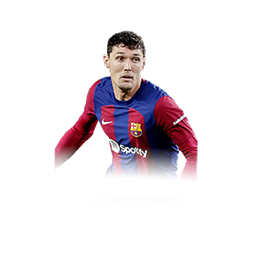
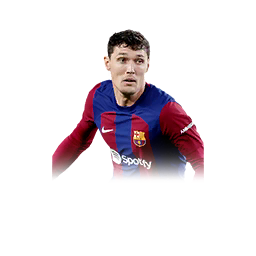
FCMSquad

Changed region(s): [[0.1875, 0.0938, 0.8125, 0.6875]]

diff --git a/fcmsimul/scripts/cardList.js b/fcmsimul/scripts/cardList.js
@@ -144,9 +144,9 @@ const cardData = [
     {idx: 142, code: "LEGACY23", name: "LEGACY23", otherNames: ["23레거시", "레거시23", "레거시"], image: "https://indvel.github.io/fcmsquad/resources/cards/Legacy23.png", type: "fm", color: "white"},
     {idx: 143, code: "KOT", name: "TT22 LOW", otherNames: ["TT22", "22TT", "TT", "티티", "녹즙"], image: "https://indvel.github.io/fcmsquad/resources/cards/TT22_Low.png", type: "fm", color: "white"},
     {idx: 144, code: "TI24", name: "트로피 아이콘_Low", otherNames: ["트로피", "트아", "118", "공짜"], image: "https://indvel.github.io/fcmsquad/resources/cards/TrophyIcons_Low.png", type: "fc", color: "#664B00"},
-    {idx: 145, code: "HEROES24", name: "Hero24", otherNames: ["히어로24", "히어로", "카툰", "24히어로"], image: "https://indvel.github.io/fcmsquad/resources/cards/Heroes24.png", type: "fc", color: "white"},
+    {idx: 145, code: "HEROES24", name: "Hero24", otherNames: ["히어로24", "히어로", "24히어로"], image: "https://indvel.github.io/fcmsquad/resources/cards/Heroes24.png", type: "fc", color: "white", sprite: "HERO24_Live_looop.png"},
     {idx: 146, code: "HEROES24", name: "Hero24_CARTOON", otherNames: ["히어로24", "히어로", "카툰", "24히어로", "챔스", "UCL"], image: "https://indvel.github.io/fcmsquad/resources/cards/Heroes24_UCL.png", type: "fc", color: "white"},
-    {idx: 147, code: "HEROES24", name: "UnsungHero24", otherNames: ["히어로24", "히어로", "카툰", "언성", "UH", "언성히어로", "24히어로"], image: "https://indvel.github.io/fcmsquad/resources/cards/Heroes24_Unsung.png", type: "fc", color: "white"},
+    {idx: 147, code: "HEROES24", name: "UnsungHero24", otherNames: ["히어로24", "히어로", "카툰", "언성", "UH", "언성히어로", "24히어로"], image: "https://indvel.github.io/fcmsquad/resources/cards/Heroes24_Unsung.png", type: "fc", color: "white", sprite: "HERO24_CARD_loop.png"},
     {idx: 148, code: "HT24", name: "HatTrick24", otherNames: ["해트트릭", "해트", "트릭", "신태용", "만우절", "멕시코"], image: "https://indvel.github.io/fcmsquad/resources/cards/DOD24.png", type: "fc", color: "white"},
     {idx: 149, code: "HT24_ICON", name: "HatTrick24_ICON", otherNames: ["해트트릭", "해트", "트릭", "신태용", "만우절", "멕시코", "아이콘"], image: "https://indvel.github.io/fcmsquad/resources/cards/DOD24_ICON.png", type: "fc", color: "#664B00"},
     {idx: 150, code: "CT24", name: "CENTURIONS24", otherNames: ["센츄리온", "센츄", "CT", "센추리온", "센추리얼", "센츄리온스", "센추리온스"], image: "https://indvel.github.io/fcmsquad/resources/cards/CENTURIONS24.png", type: "fc", color: "white"},

diff --git a/fcmsquad/resources/faceData.js b/fcmsquad/resources/faceData.js
@@ -2270,6 +2270,7 @@ const faceData = [
         "idx": 285,
         "pid": "235790",
         "images": [
+            "./resources/players/players_23/p235790_HEROES24.png",
             "https://renderz.app/image-cdn/player_23_235790_UCLRTF24_LIVE_4c57ee6866a4ef50/normal",
             "https://renderz.app/image-cdn/player_23_235790_MOMENT24_LIVE_9ce31eb72ebc3989/normal",
             "https://renderz.app/image-cdn/player_23_235790_TOTS24_LIVE_ca8cb5eb7337c826/normal",
@@ -3078,7 +3079,7 @@ const faceData = [
         "idx": 376,
         "pid": "251809",
         "images": [
-            "./resources/players/players_23/p251809_HERO24_LIVE.png",
+            "./resources/players/players_23/p251809_HEROES24.png",
             "https://renderz.app/image-cdn/player_23_251809_WW24_LIVE_fce6f40483392e36/normal",
             "https://renderz.app/image-cdn/player_23_251809/normal"
         ]
@@ -6893,6 +6894,7 @@ const faceData = [
         "idx": 895,
         "pid": "200724",
         "images": [
+            "./resources/players/players_23/p200724_HEROES24.png",
             "https://renderz.app/image-cdn/player_23_200724_UCL24_LIVE/normal",
             "https://renderz.app/image-cdn/player_23_200724_2324BASE_2936037cf12c360f/normal"
         ]
@@ -12268,5 +12270,12 @@ const faceData = [
         "images": [
             "./resources/players/players_23/p266483_KL24_ICON.png"
         ]
-    }
+    },
+    {
+        "idx": 105,
+        "pid": "212811",
+        "images": [
+            "./resources/players/players_23/p212811_HEROES24.png"
+        ]
+    },
 ]

diff --git a/fcmsquad/resources/fcmData.js b/fcmsquad/resources/fcmData.js
@@ -7147,14 +7147,6 @@ const fcmData = [
         "face": "p206585"
     },
     {
-        "pid": "200724",
-        "pos": "CB",
-        "nick": "NACHO FERNÁNDEZ",
-        "name": "José Ignacio Fernández Iglesias",
-        "event": "S8_UCL",
-        "face": "p200724_UCL24_LIVE"
-    },
-    {
         "pid": "227236",
         "pos": "CDM",
         "nick": "ZAMBO ANGUISSA",
@@ -13857,5 +13849,13 @@ const fcmData = [
         "name": "폴 포그바",
         "event": "LEGACY23",
         "face": "p195864"
+    },
+    {
+        "pid": "212811",
+        "pos": "CDM",
+        "nick": "마리오 르미나",
+        "name": "마리오 르미나",
+        "event": "HEROES24",
+        "face": "p212811"
     }
 ];
